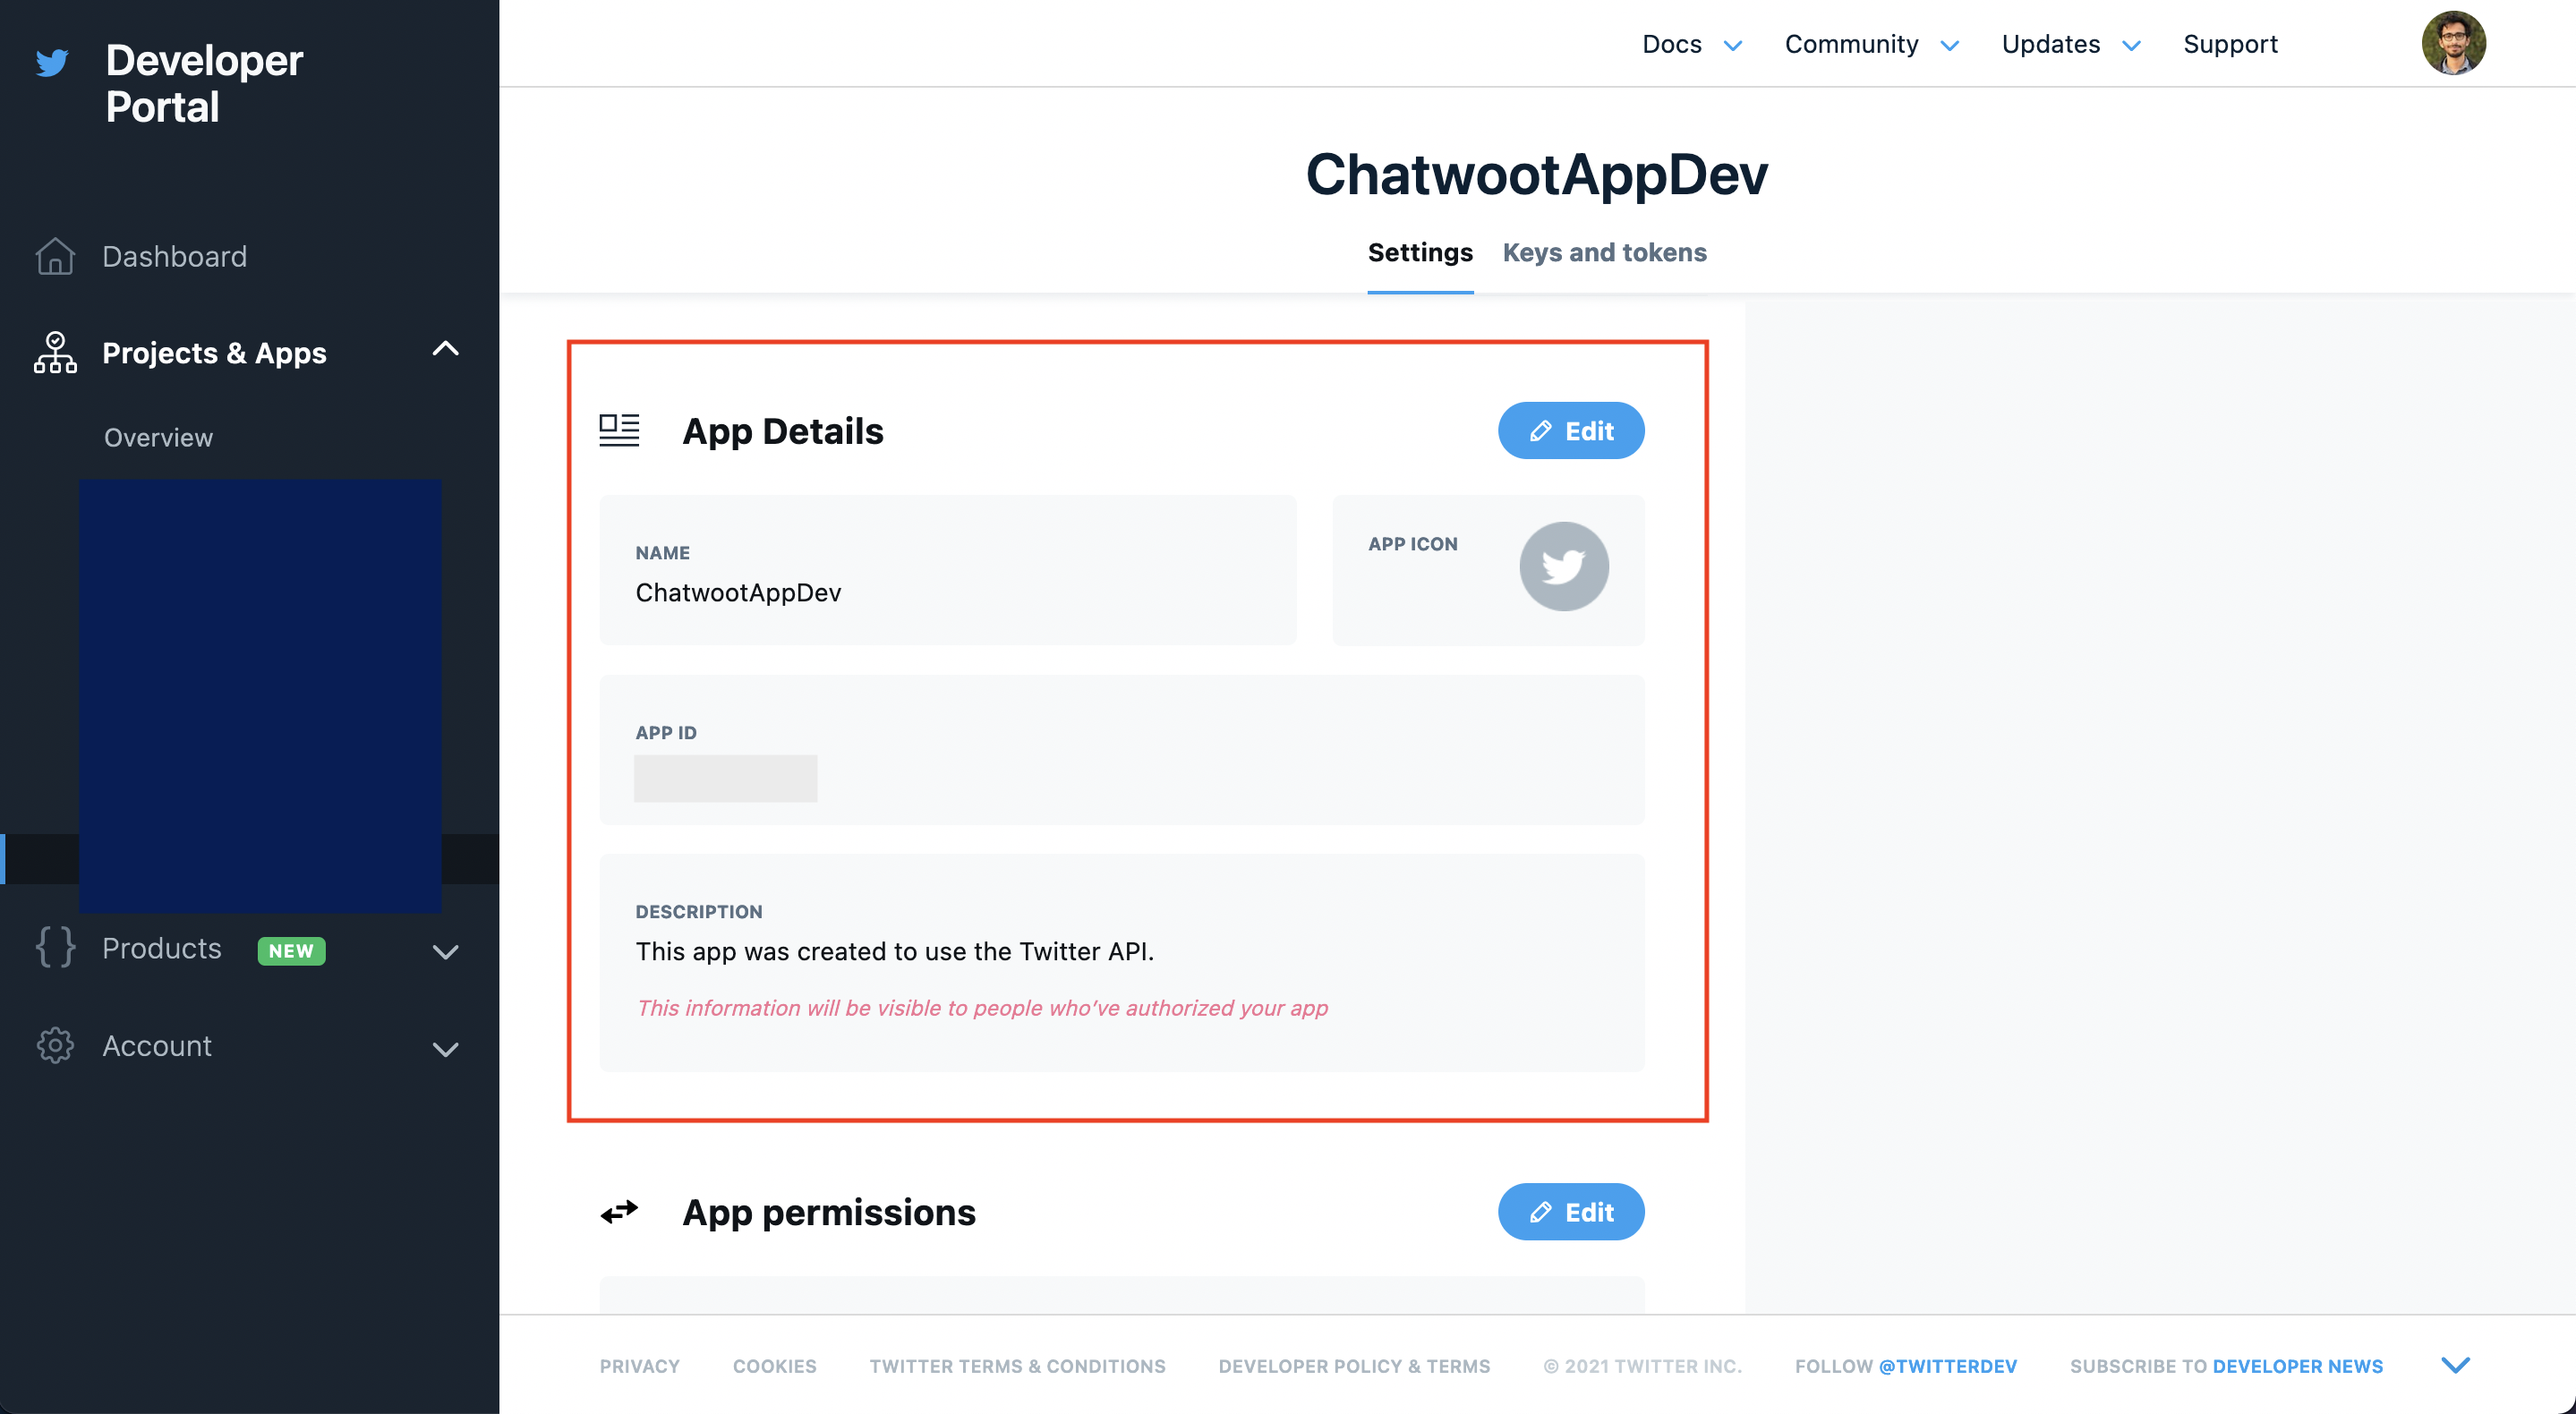
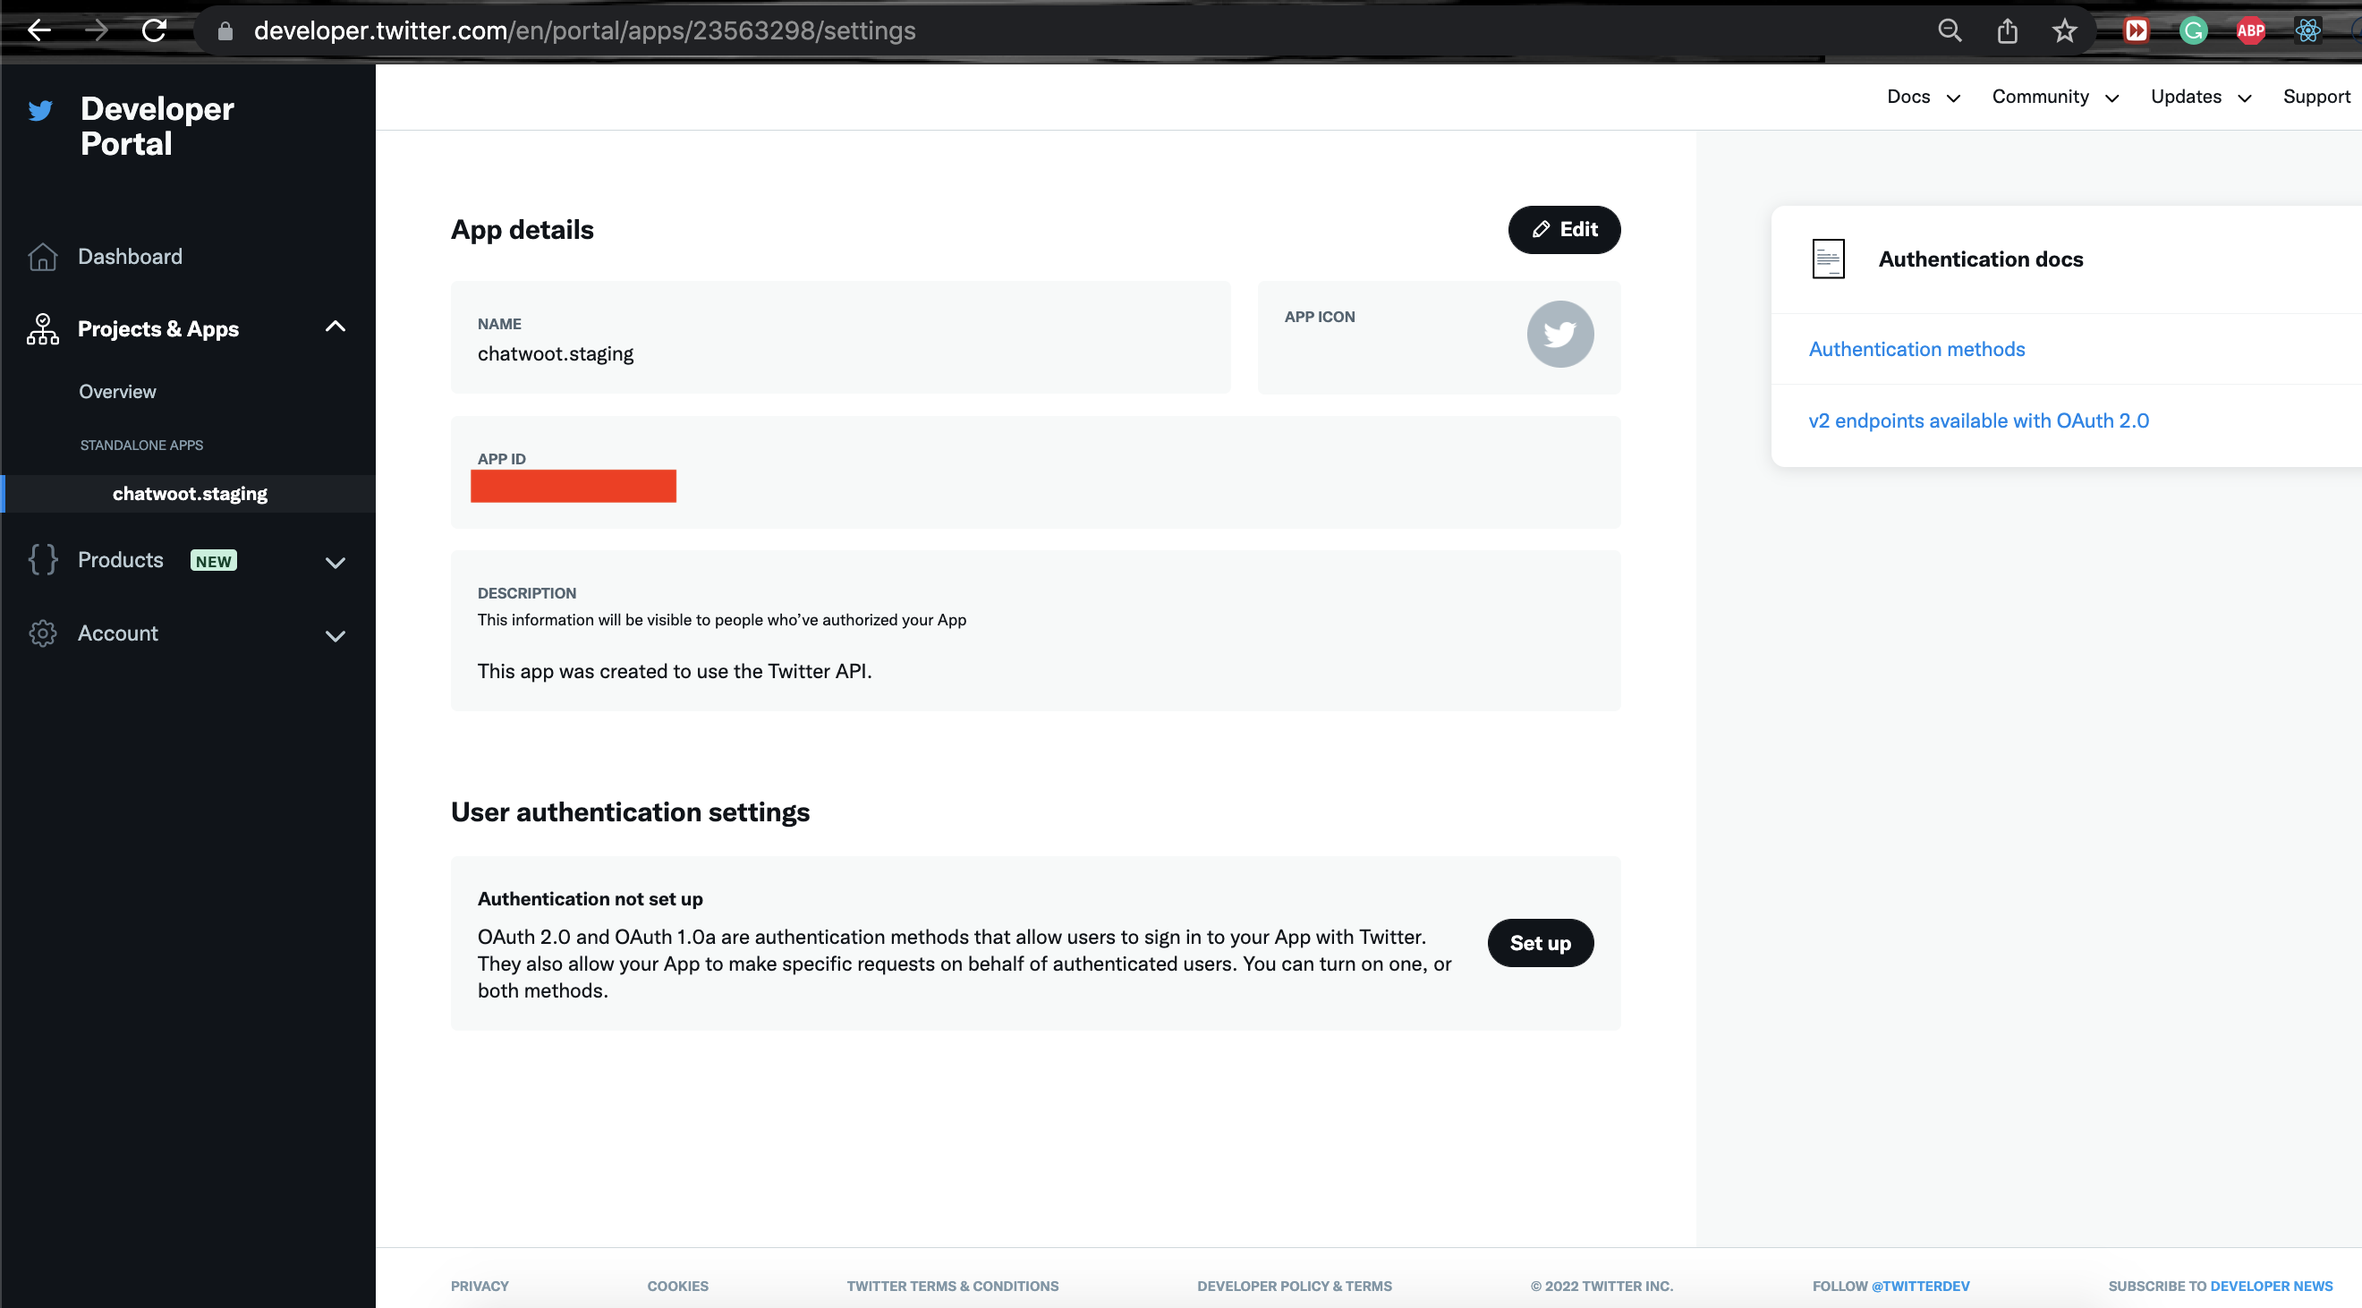
Feat: twitter doc update

diff --git a/docs/self-hosted/configuration/features/integrations/twitter-channel-setup.md b/docs/self-hosted/configuration/features/integrations/twitter-channel-setup.md
@@ -14,22 +14,26 @@ TWITTER_CONSUMER_SECRET=
 TWITTER_ENVIRONMENT=
 ```
 
+## 1. Twitter standalone App
+
+One way to handle twitter api is through standlone app, for this we don't have to add any project to create this app,
+
 ### Create a Twitter App
 
 Go to [Projects & Apps Overview Console](https://developer.twitter.com/en/portal/projects-and-apps) in Twitter Developer Portal. Go to "Standalone Apps" section. Click on "Create App" button.
 
-<img src={require('./images/twitter/standalone-app.png').default} width="400" alt="standalone" />
+<img src={require('./images/twitter/standalone-app.png').default} width="400" alt="standalone" border="1px, 1px, 1px, 1px" />
 
 Provide an app name and click on "Next".
 
-<img src={require('./images/twitter/name-your-app.png').default} width="450" alt="name-your-app" />
+<img src={require('./images/twitter/name-your-app.png').default} width="450" alt="name-your-app" border="1px, 1px, 1px, 1px" />
 
 You will be able to see the `API Key` and `API Secret Key` in the next step. Save this information as it would not available again.
 
 - Use `API Key` as `TWITTER_CONSUMER_KEY` in Chatwoot.
 - Use `API Secret Key` as `TWITTER_CONSUMER_SECRET` in Chatwoot.
 
-<img src={require('./images/twitter/store-keys.png').default} width="450" alt="store-keys" />
+<img src={require('./images/twitter/add-api-keys.png').default} width="450" alt="add-api-keys" border="1px, 1px, 1px, 1px" />
 
 Hooray! The app is created now. Next step is to enable "Sign in with Twitter" permission.
 
@@ -39,25 +43,70 @@ Complete the application profile. See the "App Details" section as shown below. 
 
 ![app-details](./images/twitter/app-details.png)
 
-### Update app permissions
+### Select authentication settings
 
-Head over to the "App Permissions" section. Update the permission to "Read and Write and Direct Messages".
+Currently we have integrated chatwoot API with Twitter API OAuth 1.0, select OAuth 1.0a from the authentication settings page.
 
-<img src={require('./images/twitter/app-permission.png').default} width="450" alt="app-permission" />
+<img src={require('./images/twitter/app-oauth-info.png').default} width="450" alt="app-oauth-info" border="1px, 1px, 1px, 1px" />
 
-### Enable 3-legged OAuth
 
-Chatwoot uses "Sign-in with Twitter" which requires 3-legged OAuth to be turned on. Head over to Authentication settings in your app settings and click on "Edit".
+#### Add app permissions
 
-<img src={require('./images/twitter/authentication-settings.png').default} width="450" alt="authentication-settings" />
+Head over to the "App Permissions" section by clicking set up button above. Update the permission to "Read and Write and Direct Messages".
 
-Enable 3-legged OAuth. Add the callback url as `{your_chatwoot_installation_url}/twitter/callback`.
+<img src={require('./images/twitter/app-permission.png').default} width="450" alt="app-permission" border="1px, 1px, 1px, 1px" />
 
-<img src={require('./images/twitter/edit-auth.png').default} width="450" alt="edit-auth" />
+#### Update general authentication settings
+
+Add the callback url as `{your_chatwoot_installation_url}/twitter/callback`.
+
+<img src={require('./images/twitter/callback-url.png').default} width="450" alt="callback-url" border="1px, 1px, 1px, 1px" />
 
 Complete the rest of the details in the authentication settings and click on "Save".
+And it's ready to use. Use all the api keys in your setup.
 
-### Create a dev environment (required)
+## 2. Create Twitter api project
+
+There is one more way to create twitter app. instead of standalone app create a project and add the app in the project.
+
+### Add a project details
+
+Add project name, select project type, add project description
+
+#### Click on create project
+
+<img src={require('./images/twitter/create-project.png').default} width="450" alt="create-project" border="1px, 1px, 1px, 1px" />
+
+#### Add project name
+
+<img src={require('./images/twitter/add-project-name.png').default} width="450" alt="add-project-name" border="1px, 1px, 1px, 1px" />
+
+#### Select project type
+
+<img src={require('./images/twitter/select-project-type.png').default} width="450" alt="select-project-type" border="1px, 1px, 1px, 1px" />
+
+#### Add project description
+
+<img src={require('./images/twitter/add-project-details.png').default} width="450" alt="add-project-details" border="1px, 1px, 1px, 1px" />
+
+
+### App setup
+
+Once you setup the project you move on to the app setup. Select appropriate environment for your self-hosted app according to the status of your application.
+Please note this is not the same environment as we setup in chatwoot, we are going to see about `TWITTER_ENVIRONMENT` in later point.
+
+<img src={require('./images/twitter/project-app-name.png').default} width="450" alt="project-app-name" border="1px, 1px, 1px, 1px" />
+
+After this step you should follow the similar step for api key and secret in the step 1, set the app name and go to the next step you will get the api key and api secret keys, save those keys.
+
+- Use `API Key` as `TWITTER_CONSUMER_KEY` in Chatwoot.
+- Use `API Secret Key` as `TWITTER_CONSUMER_SECRET` in Chatwoot.
+
+
+`PS: After you complete Step 1 or Step 2 (both steps are alternative to each other) then move on to the below step to setup the dev environment.`
+
+
+## Create a dev environment (required)
 
 In order for the DMs and Tweets to work in realtime, you need to set up Account Activity API dev environment as follows. A Twitter development environment is required for **all** installations of Chatwoot.
 
@@ -65,7 +114,7 @@ URL: https://developer.twitter.com/en/account/environments
 
 Head over to Products -> Premium -> Dev Environments. Click on `Set up dev environment`. You will be able to see a form as follows.
 
-<img src={require('./images/twitter/setup-dev-env.jpg').default} width="450" alt="setup-dev-env" />
+<img src={require('./images/twitter/setup-dev-env.jpg').default} width="450" alt="setup-dev-env" border="1px, 1px, 1px, 1px" />
 
 Provide a `Dev Environment Label`, this should be an alphanumeric string. Use the same string as `TWITTER_ENVIRONMENT` in Chatwoot.
 
